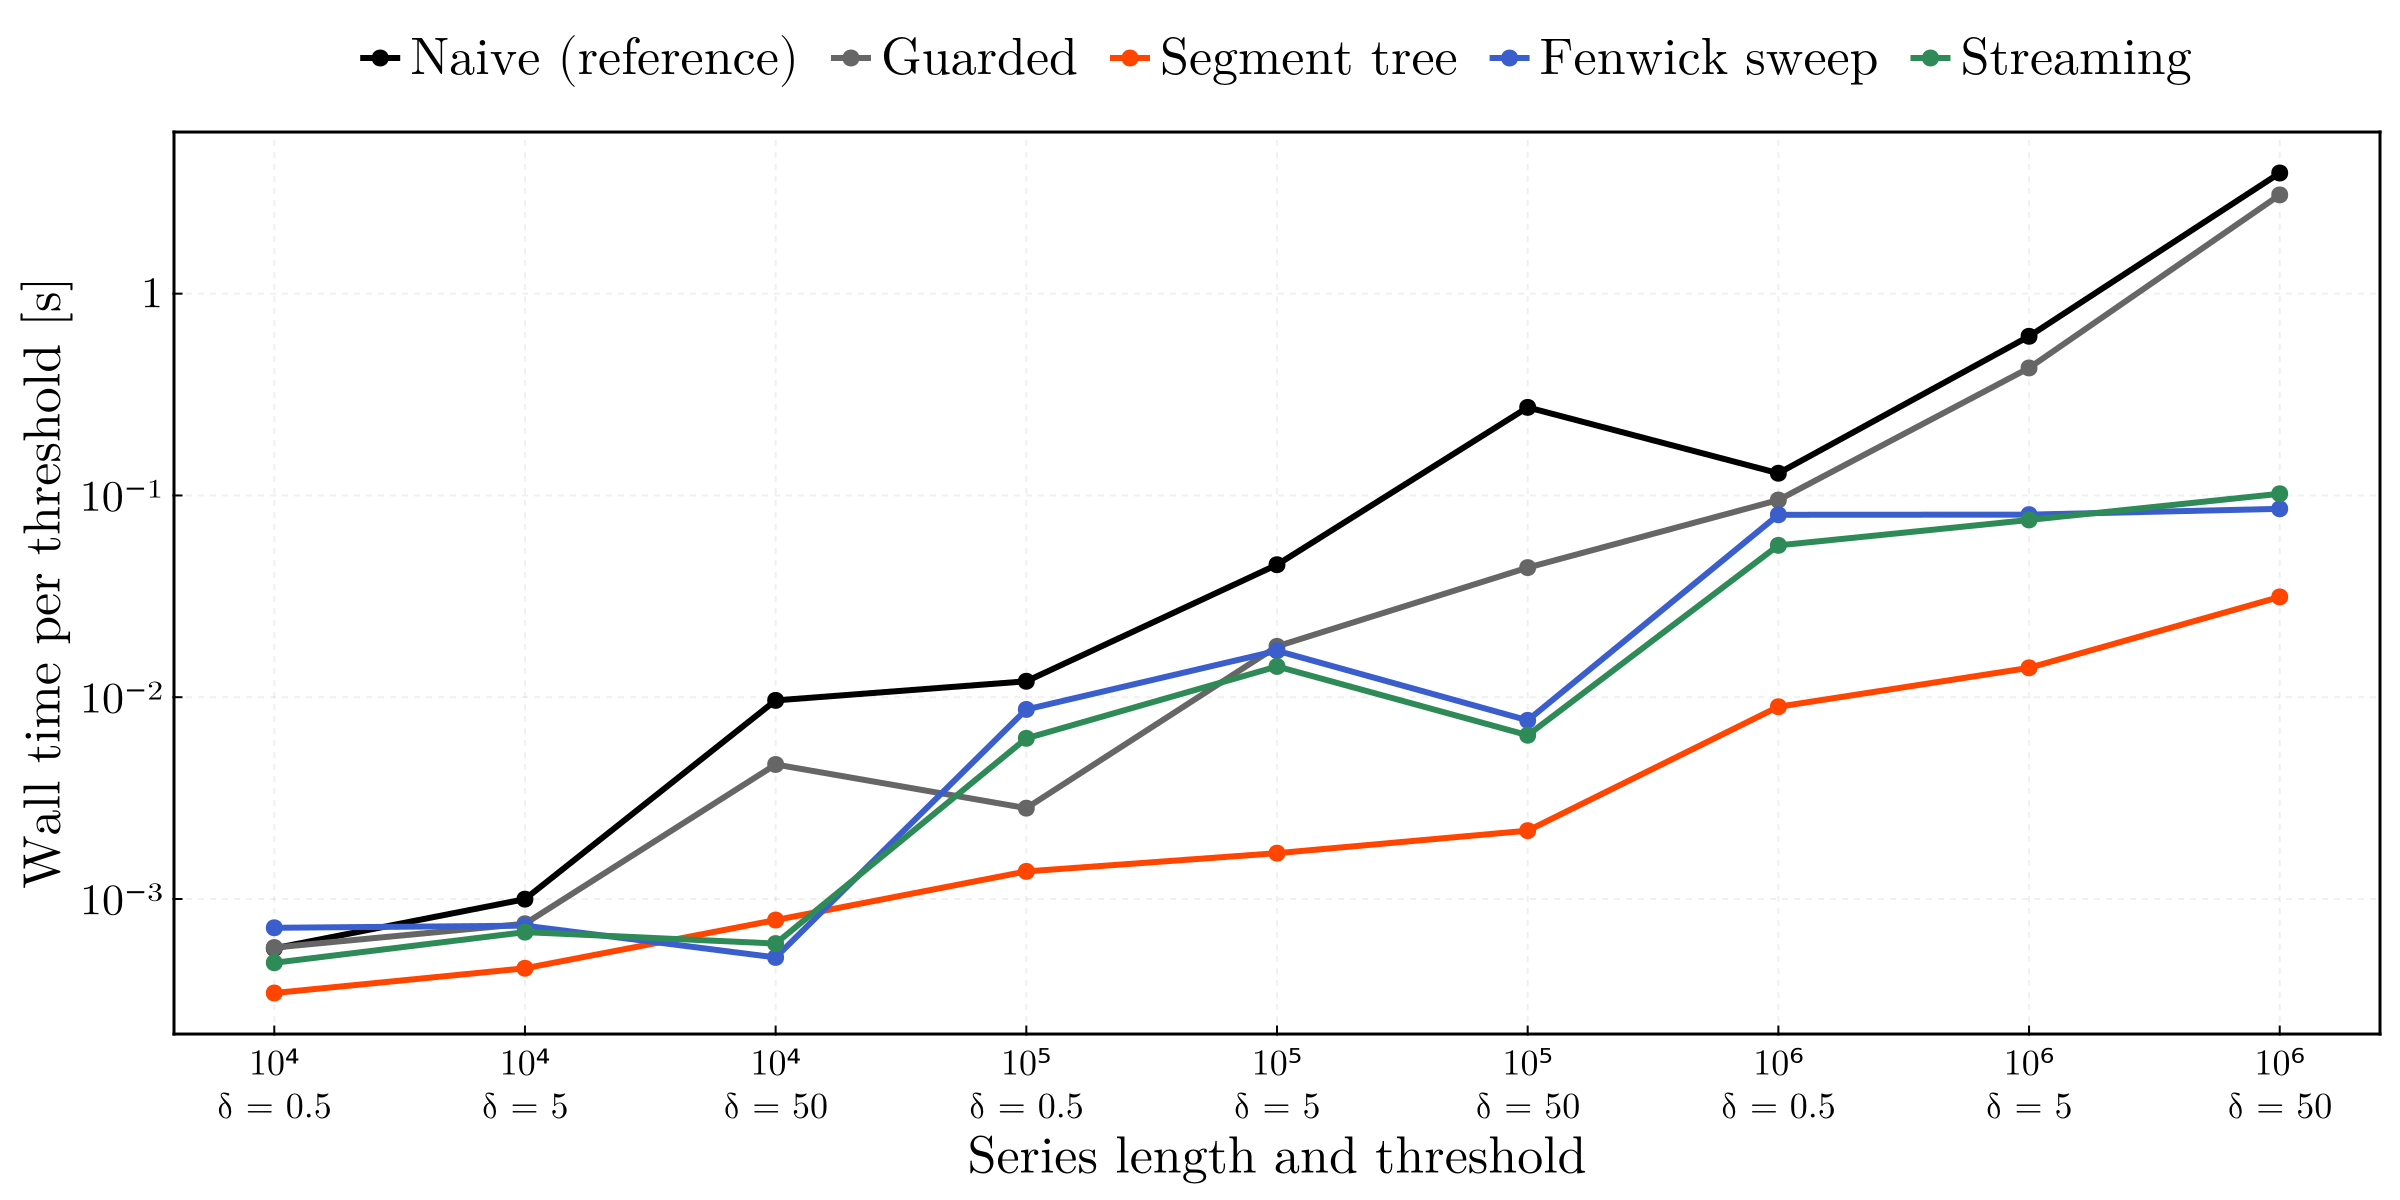
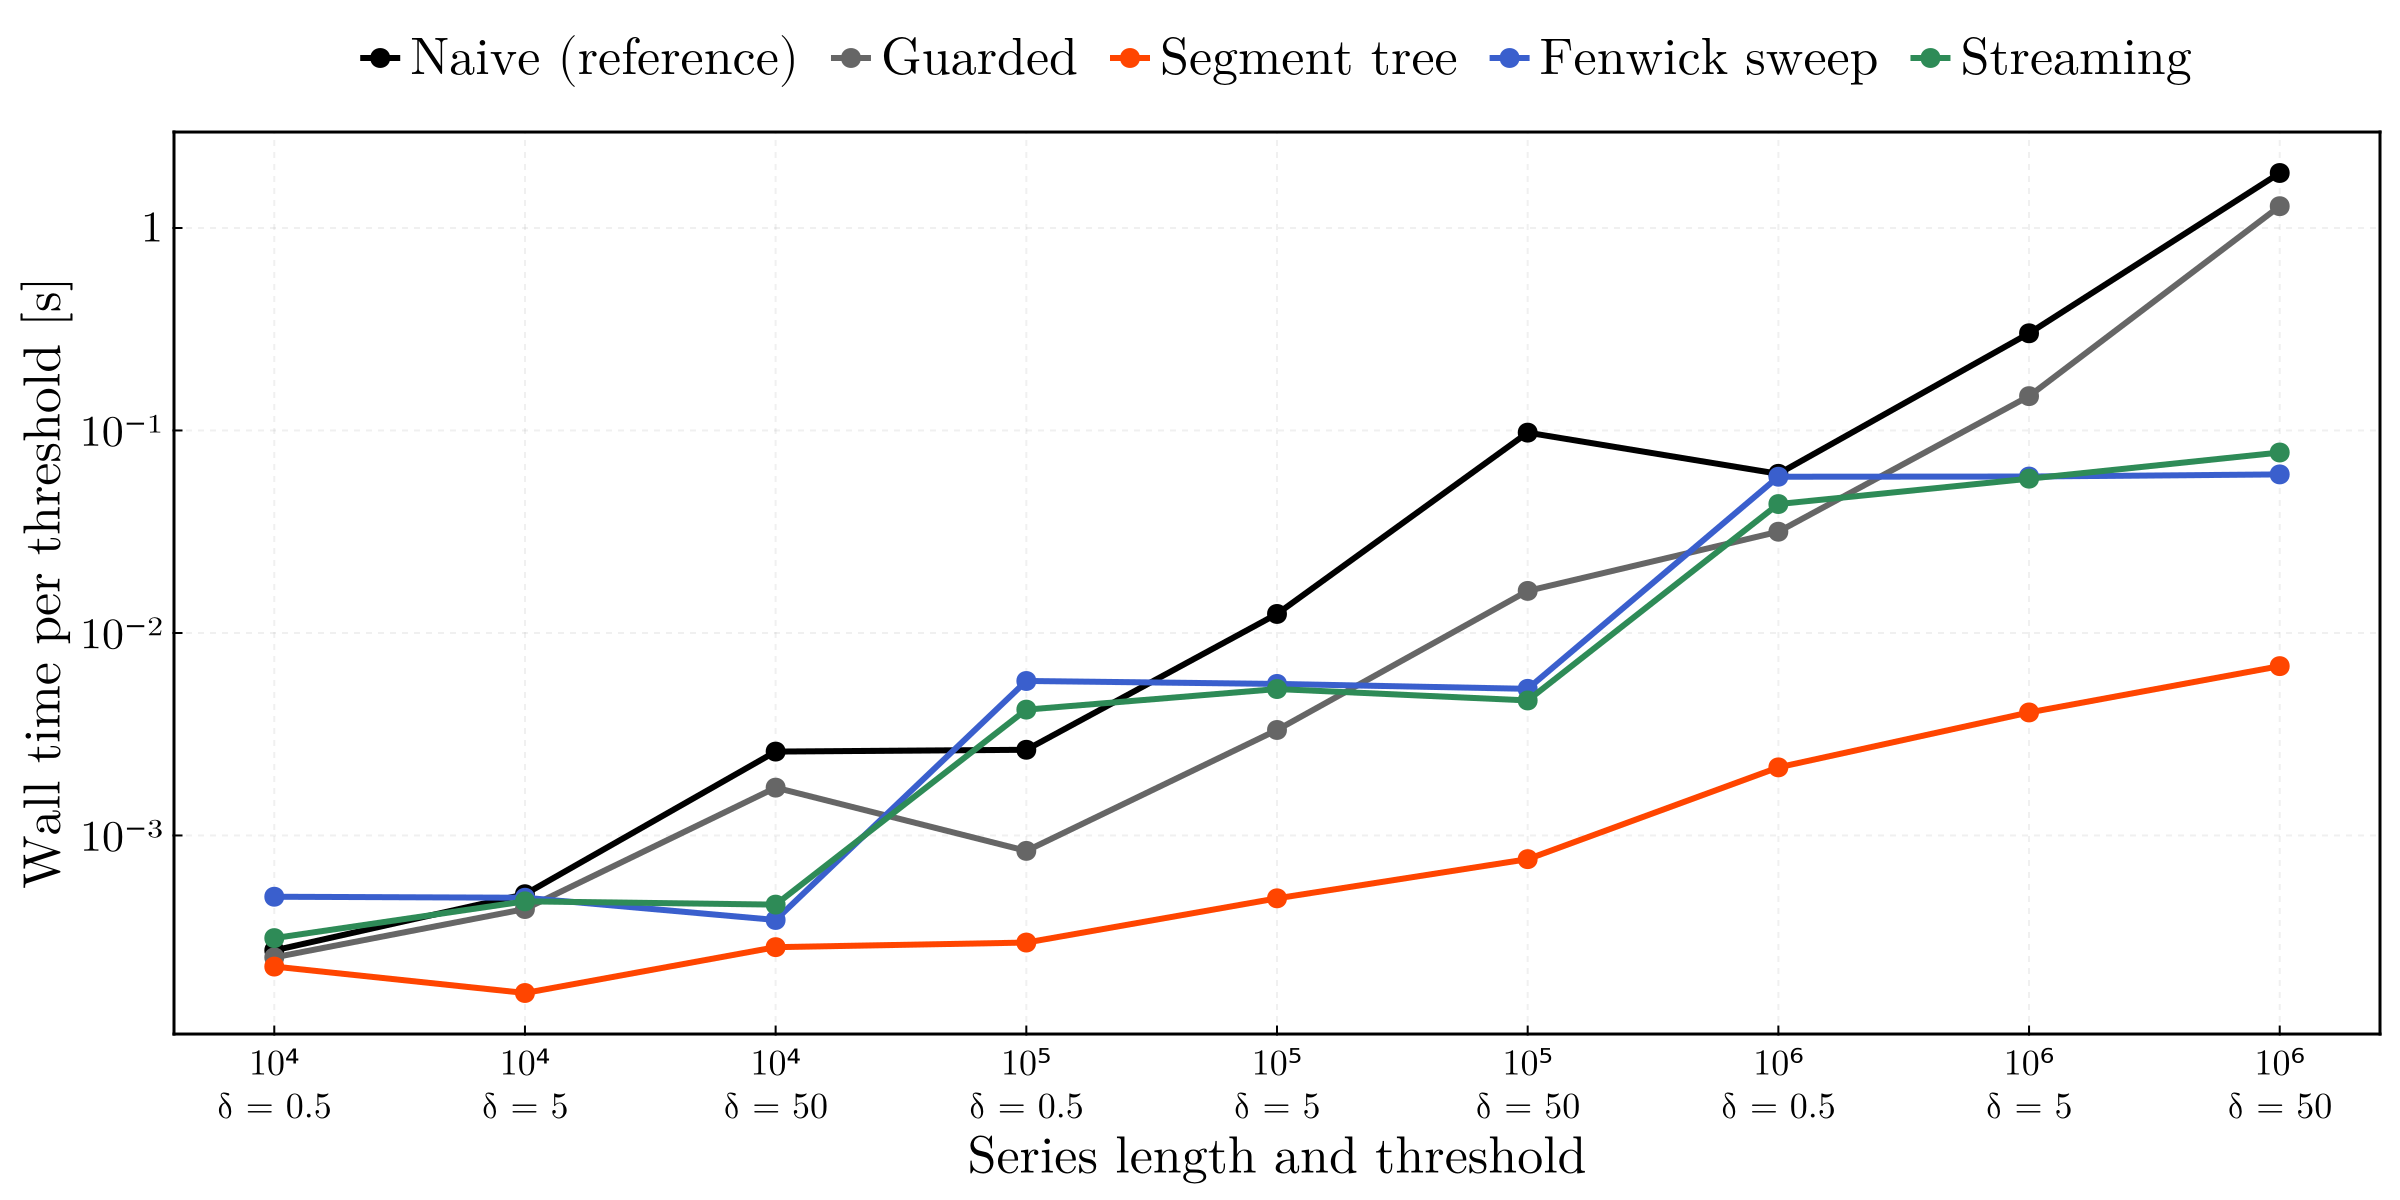
docs: kernel timings measured again on an idle machine
The timing figure of the README dated from version 0.1.0 (a dirty tree, 12
threads) and the Kernels page quoted an older measurement on another series
length and thread count, so the two disagreed by a factor of three to five for
the segment tree. The figure is rendered again at 17875dc on an idle machine,
and the Kernels page now quotes its 10^6-point column: segment tree 2 to 7 ms
per threshold, naive scan 0.06 to 1.9 s.

diff --git a/docs/src/kernels.md b/docs/src/kernels.md
@@ -24,9 +24,10 @@ A maximum segment tree over the positions finds, for each index, the
 leftmost later position whose value reaches the target: climb to the first
 right sibling whose maximum qualifies, then descend to its leftmost
 qualifying leaf, ``O(\log N)``. The tree is built once per series and is
-read-only during queries. With 22 threads it takes 33 ms per threshold on a
-synthetic random walk of ``4 \cdot 10^6`` points at large ``\delta``; the
-naive scan needs about 7 s at ``10^6`` points.
+read-only during queries. On the synthetic random walk of ``10^6`` points of
+the timing figure in the README, with 12 threads, it takes 2 to 7 ms per
+threshold for ``\delta`` from 0.5 to 50, where the naive scan takes 0.06 to
+1.9 s (2026-11-26, version 0.6.1 at commit `17875dc`).
 
 ## Fenwick sweep
 
